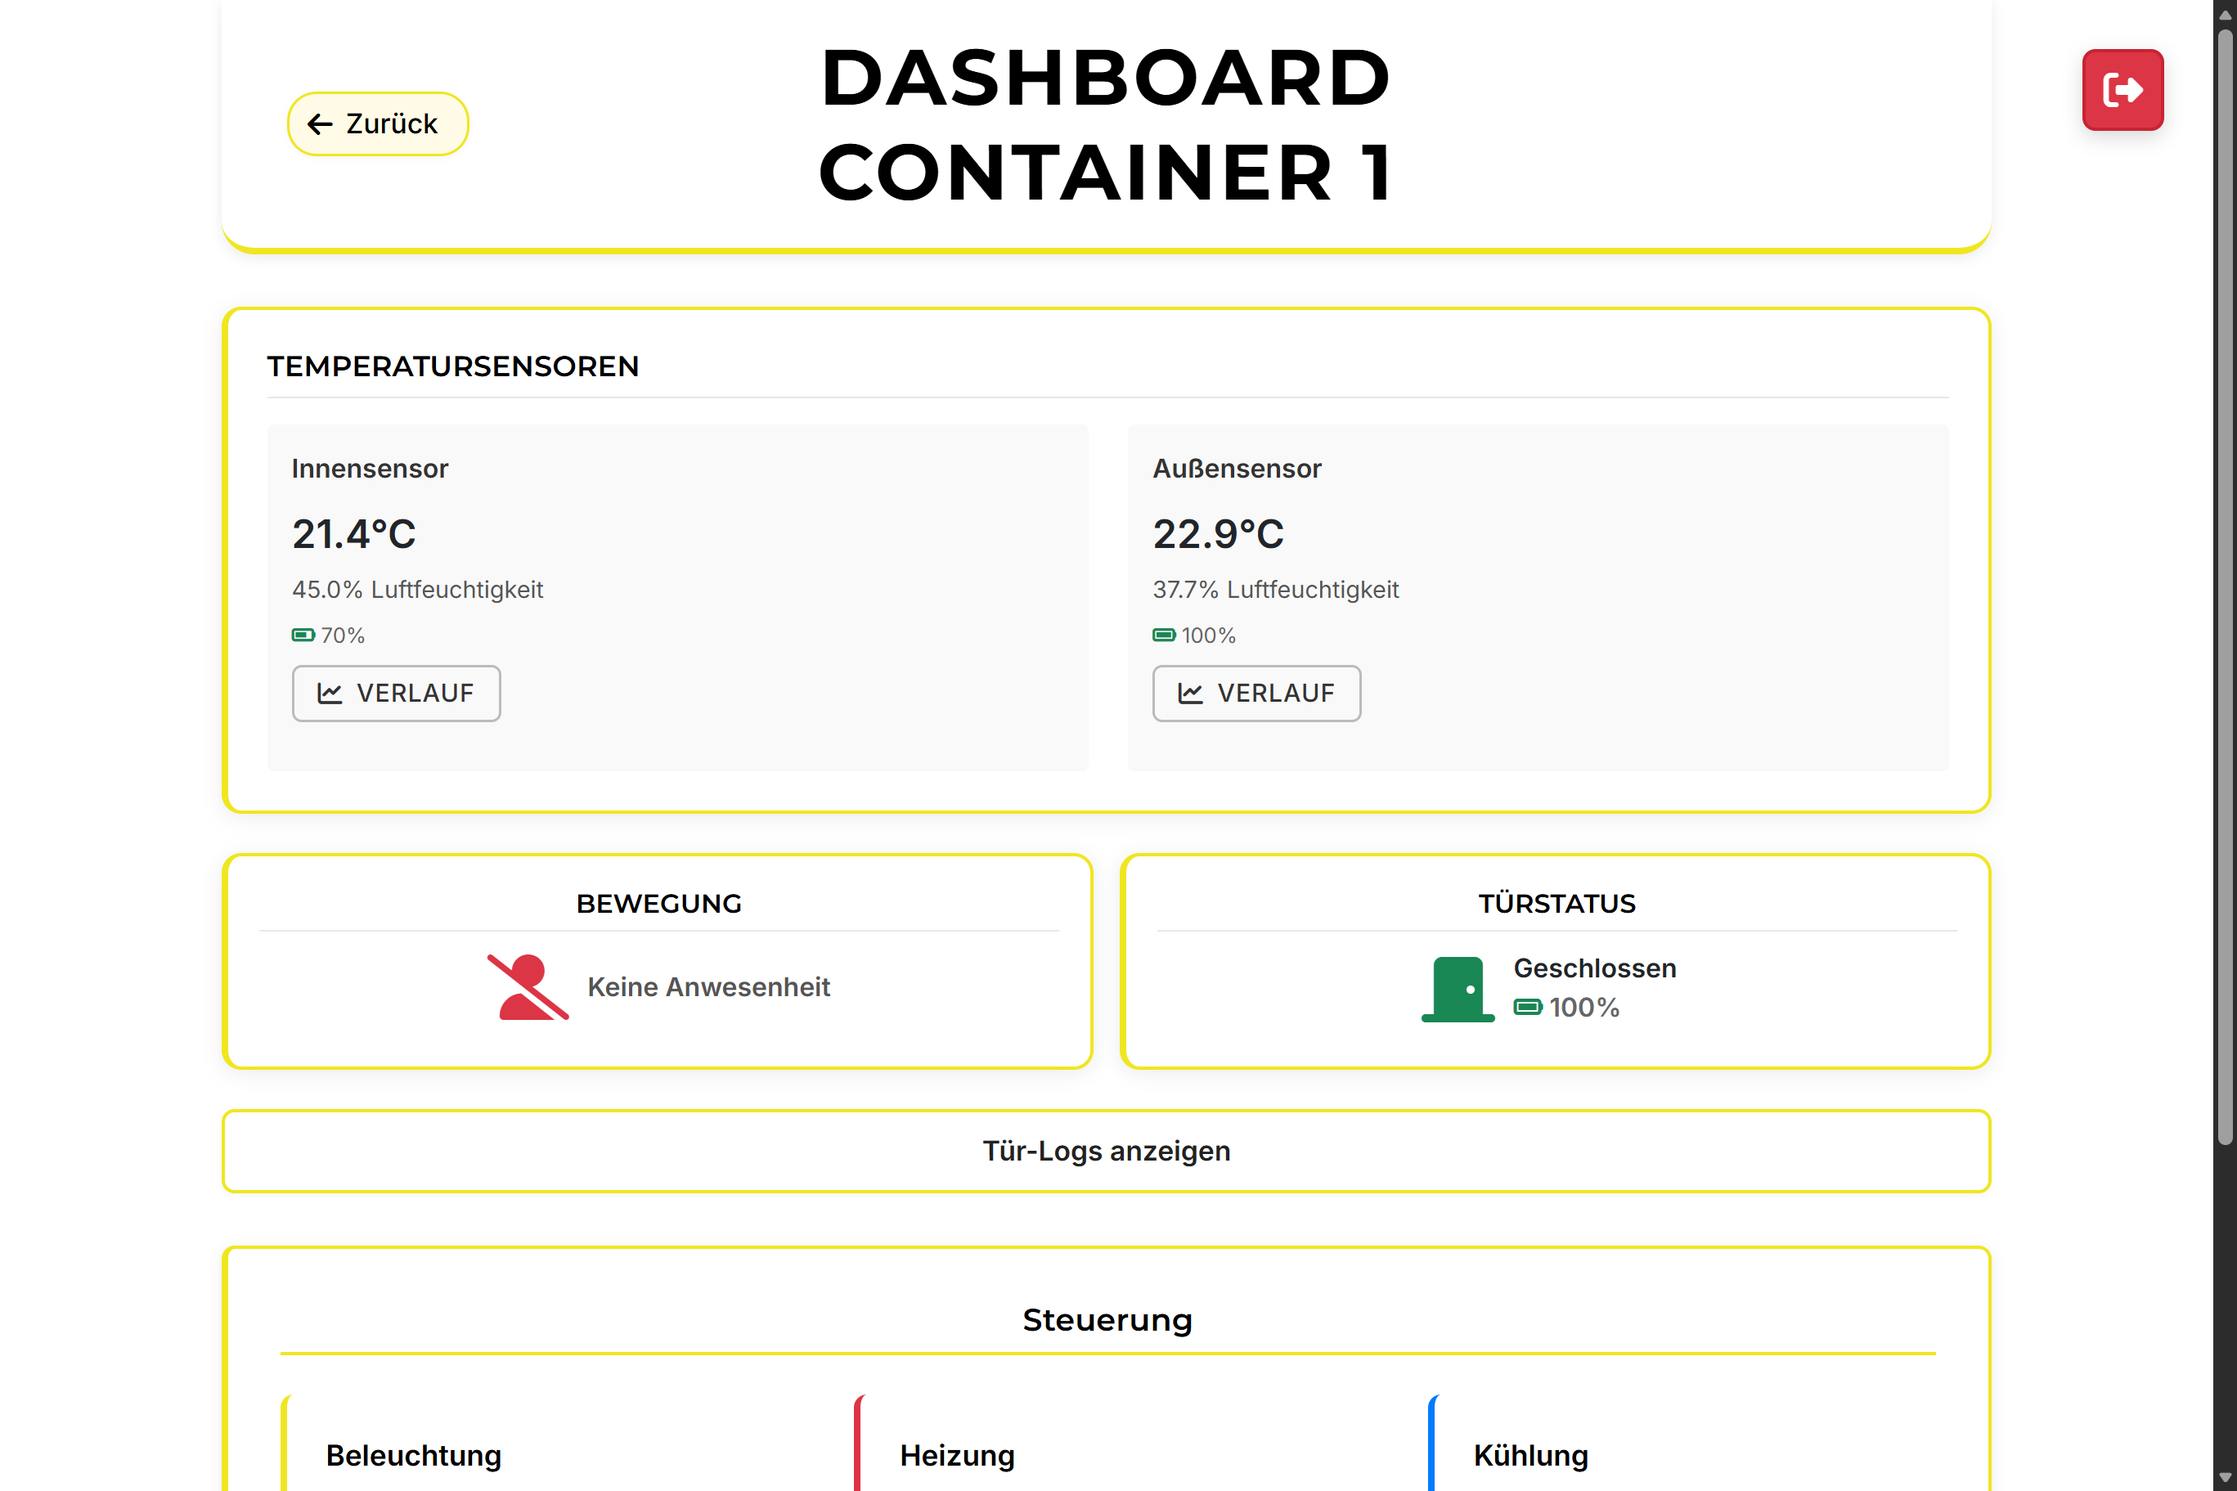
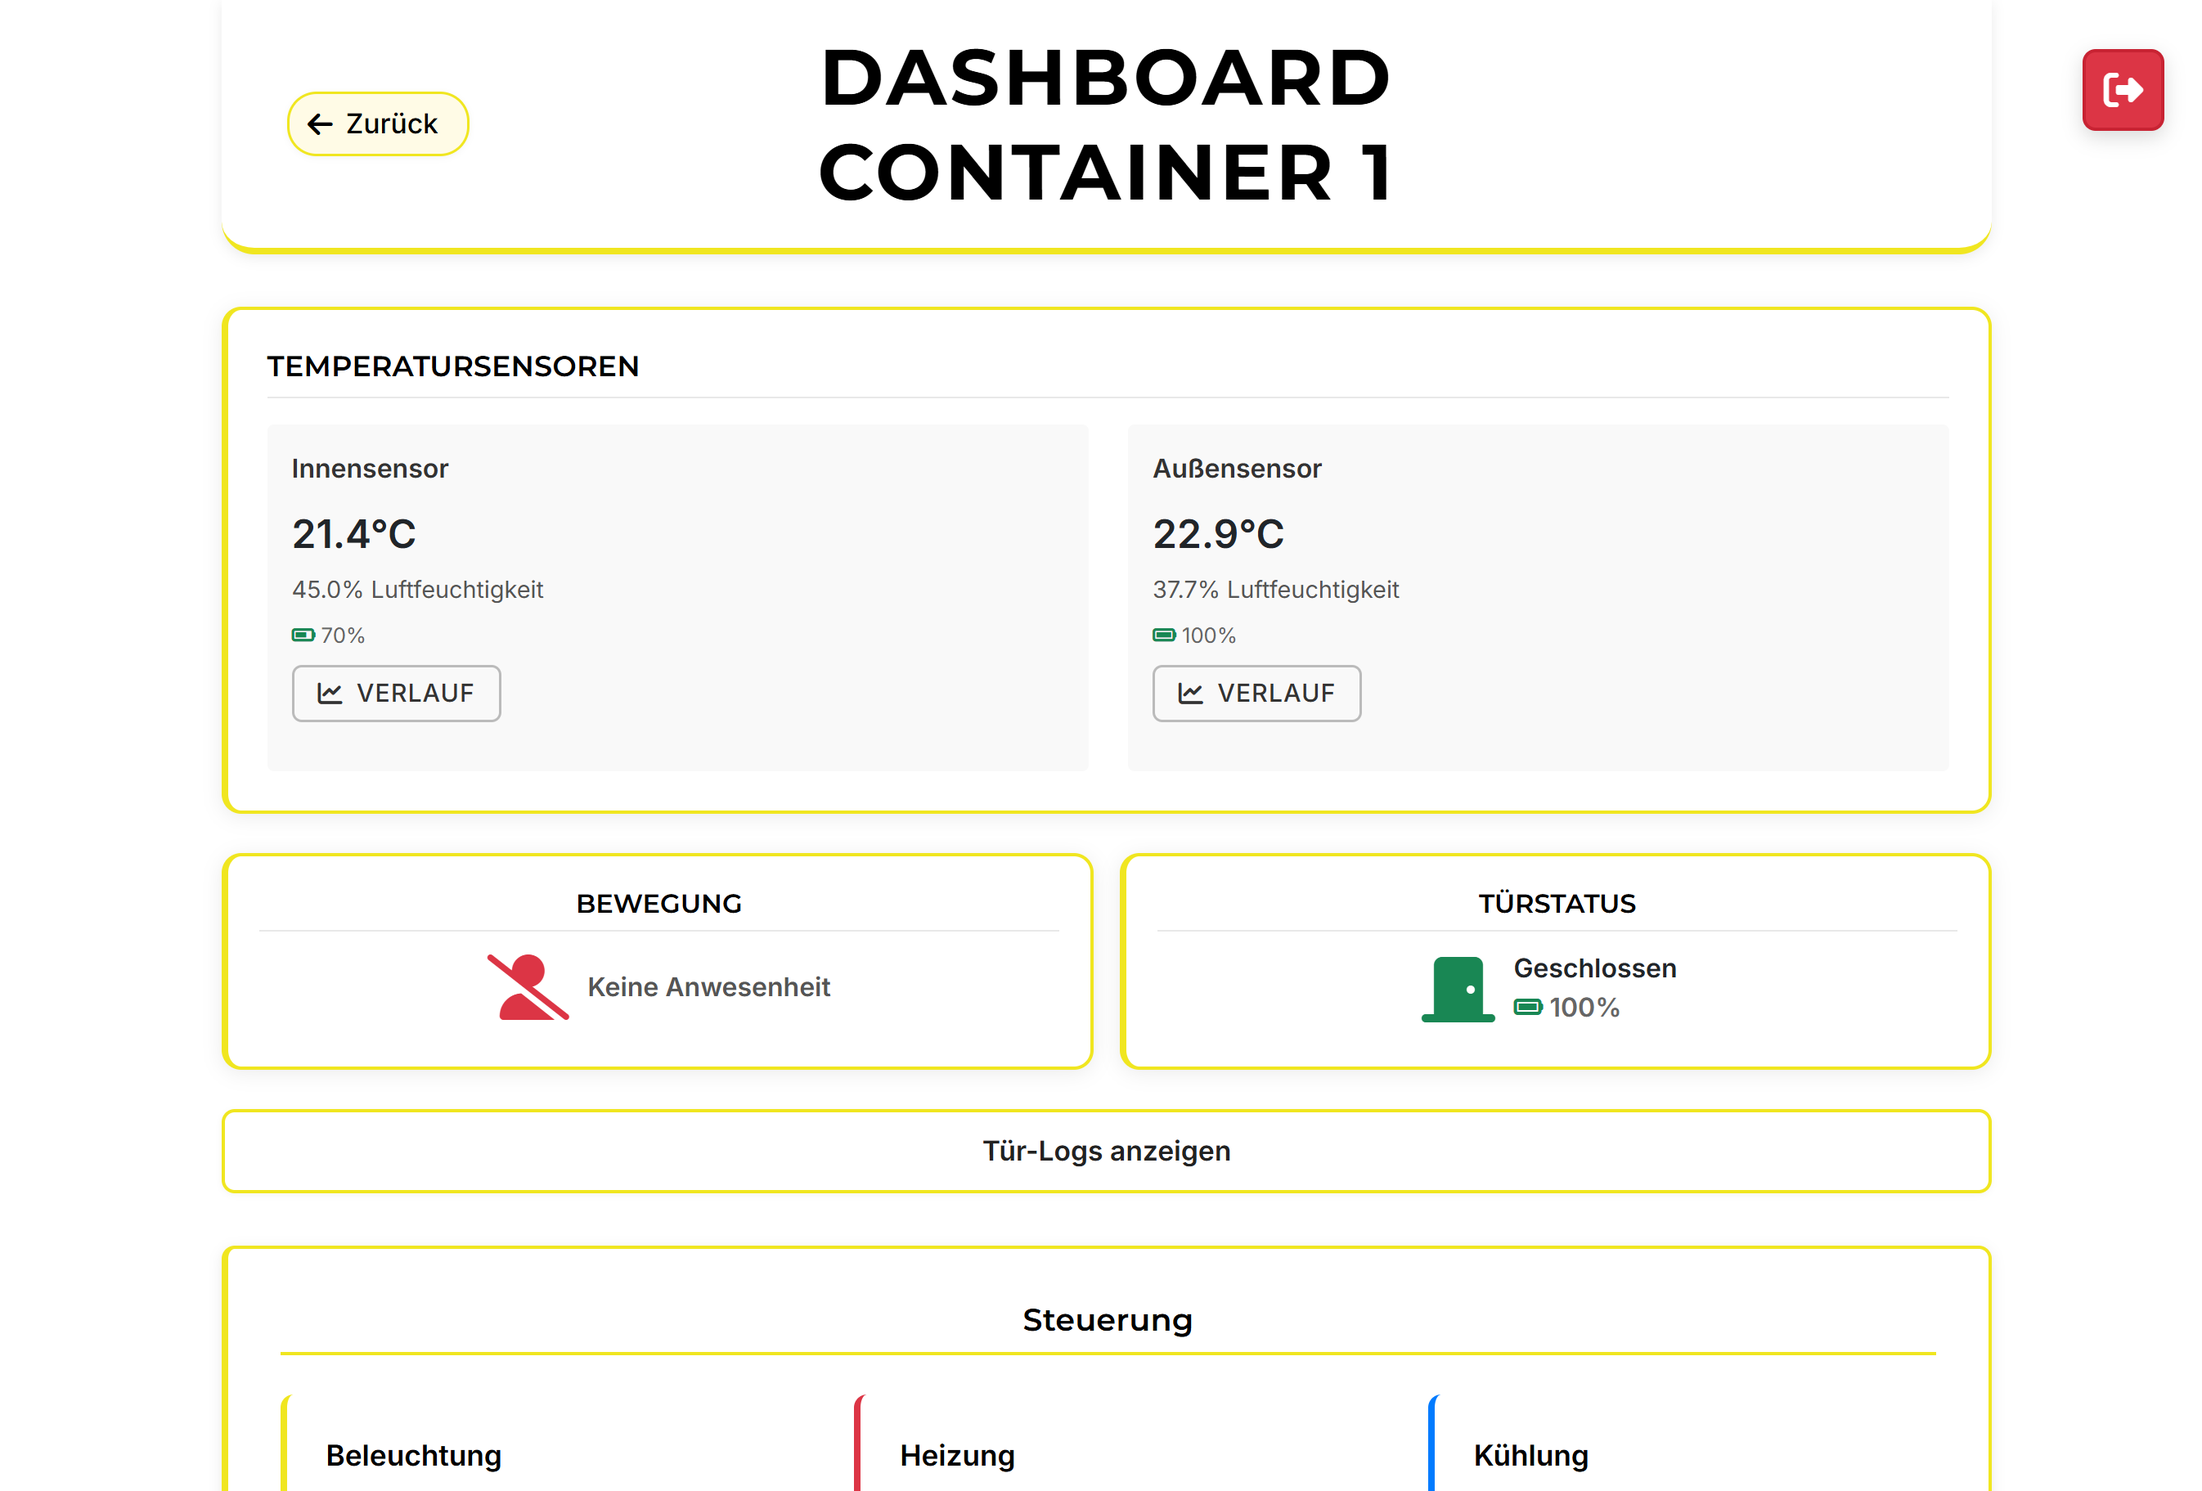
feat:  Services, Guards

diff --git a/sections/implementation.tex b/sections/implementation.tex
@@ -385,15 +385,19 @@ Die Ports werden pfadbasiert weitergeleitet:
 
 
 
-\section{Angular}
+\section{Frontend: Angular}
 Da das Projekt nicht nur am Desktop, sondern auch auf mobilen Devices zum Einsatz kommen soll, wurde die gesamte Applikation in einem responsive Design entwickelt. 
 \setauthor{Elias Mahr}
 
 \subsection{Components}
 
 Komponenten sind in Angular die Grundlage der Webseite. Sie dienen zur einfachen und übersichtlichen Strukturierung der Anwendung. Durch klare Code Trennungen ist alles übersichtlich und bei späteren Verbesserungen/Änderungen leichter zu Warten.
-Eine Anwendung wird nicht in einem einzigen html File erstellt sondern klar in mehrere kleinere Elemente,bestehend aus eigenen html, css, und typescript Files, unterteilt. Diese kombiniert ergeben dann erst das große ganze, somit wird auf der einen Seite die Architektur so Sauber wie möglich gehalten und auf der anderen Seite die Wartung so einfach wie möglich vorbereitet.
-
+Eine Anwendung wird nicht in einem einzigen html File erstellt sondern klar in mehrere kleinere Elemente, bestehend aus eigenen html, css, und typescript Files, unterteilt. Diese kombiniert ergeben dann erst das große ganze, somit wird auf der einen Seite die Architektur so Sauber wie möglich gehalten und auf der anderen Seite die Wartung so einfach wie möglich vorbereitet.
+Um so eine Komponente zu erstellen kann man ganz einfach die Angular CLI benutzen. Mit dem Befehl
+\begin{lstlisting}[language=bash, caption={erstellen einer Komponente in der Angular CLI}]
+ng generate component NAME
+\end{lstlisting}
+werden alle benötigten Files erstellt.
 
 \subsubsection{Komponenten Baum}
 
@@ -536,7 +540,7 @@ Um dies zu erleichtern wird beim Eingeben eines neuen Datums sofort ein kleiner 
 
 \begin{figure}[H]
     \centering
-    \includegraphics[scale=0.15]{pics/dashboard.png}
+    \includegraphics[scale=0.18]{pics/dashboard.png}
     \caption{Dashboard}
     \label{fig:Dashboard}
 \end{figure}
@@ -550,6 +554,60 @@ kann ein weiterer Abschnitt jederzeit leicht hinzugefügt werden, ohne Rücksich
 Ganz oben in der Componente sieht man die Überschrift mit dem Namen des Containers. Der erste Abschnitt ist eine übersichtliche Temperaturanzeige von Innen- und Außensensor.
 Fettgedruckt ist die Temperatur, da das die wichtigste Anzeige im Container ist. Gleich darunter steht etwas kleiner die Luftfeuchtigkeit und abschließend noch die Anzeige der übrigen Batterie, um rechtzeitig zu erkennen, wann die Batterien gewechselt werden sollten.
 Ein detaillierter Verlauf kann dann noch mit dem Button ``Verlauf'' angezeigt werden. Dazu aber dann in dieser Componente mehr.
+
+Darunter befinden sich der Anwesenheitsstatus und der Tür Status. Diese sind durch Icons sofort ersichtlich. 
+
+\begin{figure}[H]
+    \centering
+    \begin{subfigure}[b]{0.45\textwidth}
+        \centering
+        \includegraphics[width=0.3\textwidth]{pics/AnwesenheitTrue.png}
+        \caption{Anwesenheit True}
+        \label{fig:anwesenheitTrue}
+    \end{subfigure}
+    \hfill
+    \begin{subfigure}[b]{0.45\textwidth}
+        \centering
+        \includegraphics[width=0.29\textwidth]{pics/AnwesenheitFalse.png}
+        \caption{Anwesenheit False}
+        \label{fig:anwesenheitFalse}
+    \end{subfigure}
+    \caption{Icons Anwesenheit}
+    \label{fig:anwesenheitIcons}
+\end{figure}
+
+\begin{figure}[H]
+    \centering
+    \begin{subfigure}[b]{0.45\textwidth}
+        \centering
+        \includegraphics[width=0.3\textwidth]{pics/DoorTrue.png}
+        \caption{Tür zu}
+        \label{fig:doorOpen}
+    \end{subfigure}
+    \hfill
+    \begin{subfigure}[b]{0.45\textwidth}
+        \centering
+        \includegraphics[width=0.29\textwidth]{pics/DoorFalse.png}
+        \caption{Tür offen}
+        \label{fig:door Close}
+    \end{subfigure}
+    \caption{Unterschied der Urlaube}
+    \label{fig:door Icons}
+\end{figure}
+
+
+In der Mitte kommt man zum Button "Tür logs anzeigen". Dieser navigiert zur door-logs Komponente mit den jeweiligen Daten zum Cointainer.
+
+Im Elemente Steuerung gibt es 3 Unterteilungen in "Beleuchtung", "Heizung" und "Kühlung". Durch einen klick auf den Toggle kann dann im Container der jeweilige Plug ein/aus geschaltet werden.
+
+\begin{figure}[H]
+    \centering
+    \includegraphics[scale=0.27]{pics/Steuerung.png}
+    \caption{Steuerung}
+    \label{fig:steuerung}
+\end{figure}
+
+Das Ende der Komponente ist der "Kalender bearbeiten" Button. Dieser ist bei fehlender Autorisierung disabled. Nach erfolgreicher Anmeldung kann hier zur calendar-component navigiert werden.
 
 \subsubsection{door-logs}
 
@@ -570,19 +628,33 @@ Ein detaillierter Verlauf kann dann noch mit dem Button ``Verlauf'' angezeigt we
     \label{fig:doorLogs}
 \end{figure}
 
+Ein Wesentlicher Bestandteil unserer Arbeit ist es die Sicherheit gegen Einbrüche in die Container zu verbessern.
+Da unsere erste Überlegung mit der Kamera, Datenschutztechnisch sehr schwierig umzusetzen ist und sich in einer Rechtlichen Grauzone befindet wurde eine andere Lösung gesucht.
+Nach Gesprächen mit der Firma wurde das Konzept der door-logs Komponente entwickelt.
+Die Komponente zeigt die Historie aller Türöffnungen des Containers auf.
+Um unerlaubtes eindringen außerhalb der Arbeitszeit nachvollziehen zu können sind in dieser Komponente im nachhinein alle Öffnungen aufgezeigt.
+
+
+Aufgebaut ist sie in drei Abschnitte.
+Einmal die Überschrift Tür-Logs ganz oben auf der Seite.
+Als zweites ein Menüband um mögliches filtern zu ermöglichen. Es kann eine Zeitraum Filterung und eine Filterung auf nur jene Öffnungen außerhalb der Arbeitszeit angewendet werden. Bei der Zeitraum Filterung sind standartmäßig die letzten sieben Tage eingestellt.
+In einem Dropdown werden die Möglichkeiten "letzter Monat" und "alle Daten" noch aufgezeigt. Das Dropdown kann jedoch jederzeit auf andere Zeiträume erweitert werden da der genutzte Endpunkt beliebig viele Tage zurückgeben kann.
+Sollte die Checkbox "Nur außerhalb der Arbeitszeiten" werden nur Türöffnungen außerhalb der Arbeitszeiten angezeigt, der Filter des Zeitraums wird hierbei auch berücksichtigt.
+
+Der Letzte Abschnitt ist die Liste. Zum schnellen Erkennung von unrechtmäßigen eindringen außerhalb der Arbeitszeit werden solche Öffnungen Rot hervorgehoben. Angezeigt wird für jeden Öffnung das Datum, die Zeit wann die Türe geöffnet wurde und zu welcher Zeit sie wieder geschlossen wurde.
+Am Fuße der Liste finden sich noch zwei Buttons. der gelbe Button "Zurück" ist lediglich dazu da wieder zur Dashboard Komponente zu navigieren. Der Button "Als PDF exportieren" erstellt eine Pdf Datei die sofort gedownloadet werden kann.
+Zur Erstellung der Pdf wird eine fertige JavaScript-Bibliothek JsPdf genutzt. Diese Bibliothek erstellt direkt im Browser eine Pdf, dies hat den Vorteil das kein Backend benötigt wird.
+
+\begin{figure}[H]
+    \centering
+    \includegraphics[scale=0.7]{pics/examplePdf.png}
+    \caption{Door Logs Pdf example}
+    \label{fig:LogsPdf}
+\end{figure}
+
 \subsubsection{plotly-chart}
 
-
-
-
-\begin{itemize}
-\item can- und Logout-Buttonslender-editor
-\item dashboard
-\item door-logs
-\item kalender
-\item plotly-chart
-\item start-list-container
-\end{itemize}
+\subsubsection{calendar-editor}
 
 \subsection{Dependency Injection}
 Um die Logik in allen Komponenten nicht immer wieder neu Laden zu müssen benutzt Angular das design Pattern der Dependency Injection.
@@ -591,6 +663,11 @@ Man erstellt einen Service und kann dann von allen Codeabschnitten, auf die dort
     \item \textbf{Wartbarkeit} Man vermeidet doppelten Code und kann so ganze Datenabfragen mit nur ein paar Zeilen über die gesamte App und in jeder Komponente ändern.
     \item \textbf{Anpassungsfähigkeit} In jeder neuen Komponente die erstellt wird kann sofort, exakt die selbe Logik verwendet werden wie in dem bestehenden Code.
 \end{itemize}
+Das erstellen eines solchen Services funktioniert ganz einfach in der Angular CLI.
+\begin{lstlisting}[language=bash, caption={erstellen eines Services in der Angular CLI}]
+ng generate service NAME
+\end{lstlisting}
+Daraufhin werden alle benötigten Files automatisch erstellt und man kann sofort anfangen zu implementieren.
 
 \subsubsection{Calendar}
 
@@ -622,7 +699,7 @@ Als letztes wird noch ein Patch Aufruf bereitgestellt um die Betriebsurlaube zu 
     \caption{Container Service}
     \label{fig:ContainerService}
 \end{figure}
-Der Container Service ist Primär zuständig einen Endpunkt zum Laden der ganzen Elemente der start-list-component bereit zu stellen. 
+Der Container Service ist Primär zuständig einen Endpunkt zum Laden der ganzen Elemente der start-list Komponente bereit zu stellen. 
 \begin{itemize}
 \item \textbf{get:} https://localhost:53488/api/Containers
 \end{itemize}
@@ -630,11 +707,85 @@ Per HTTP-GET bekommt man alle Container und deren Daten. Der Aufruf wird, bei Fe
 
 
 \subsubsection{Keycloak-auth}
+\begin{figure}[H]
+    \centering
+    \includegraphics[scale=0.085]{pics/KecloakService.png}
+    \caption{Keycloak Service}
+    \label{fig:KeycloakService}
+\end{figure}
+Der KeycloakAuthService regelt die ganze Benutzerauthentifizierung über Keycloak. 
+Um die Oberfläche dynamisch anpassen zu können gibt es zwei Streams die von der UI subscribed werden. Einmal für den Authentifizierungsstatus und einmal für das Management der Rollen.
+\begin{itemize}
+\item \textbf{isAuthenticated:} this.isAuthenticatedSubject.asObservable();
+\item \textbf{userRoles:} this.userRolesSubject.asObservable();
+\end{itemize}
+Der Service regelt unter anderem den Login indem er zur Keycloak Login Page umleitet und danach automatisch zur ursprünglichen Route zurück.
+Beim Logout werden beide Subjects, isAuthenticatedSubject und userRolesSubject gelöscht.
+
+
 \subsubsection{Plug-controll}
+\begin{figure}[H]
+    \centering
+    \includegraphics[scale=0.09]{pics/PlugControllService.png}
+    \caption{PlugControl Service}
+    \label{fig:PlugControlService}
+\end{figure}
+In der Frontend Architektur übernimmt der plug-controll-service die Steuerung aller Aktoren. Genauer gesagt Licht, Heizung und Kühlung. 
+Ein Post mit containerId und plugType wird an den Endpunkt geschickt. Da alle Typen direkt in einem Endpunkt geregelt sind wäre eine Zukünftige Erweiterung, für zum Beispiel ein zweites Licht, sehr einfach.
+Der Request gibt nur zurüpck ob es funktioniert hat oder nicht(boolean:true|false). Beim einem Fehlgeschlagenen versuch wird der Fehler direkt geloggt. Dadurch wird ein möglicher Fall, wie das ausstecken eines Controllers, sauber abgefangen ohne Probleme zu verursachen.
+Im Gegensatz zu den anderen Services ist der PlugControllService ein reiner schreib-Service, er kann keine Daten lesen.
+\begin{itemize}
+\item \textbf{post:} https://localhost:53488/api/PlugControl
+\end{itemize}
 \subsubsection{Sensor-adapter}
+\begin{figure}[H]
+    \centering
+    \includegraphics[scale=0.08]{pics/SensorAdapterService.png}
+    \caption{SensorAdapterService Service}
+    \label{fig:SensorAdapterService}
+\end{figure}
+Als letzter Service ist der sensor-adapter Service dazu zuständig mit dem plug-controll die ganze Sensor Logik zu vervollständigen. Der Service versorgt das Dashboard mit den aktuellen und historischen Containerdaten wie Temperatur, Steckdosenstatus und Anwesenheitsdaten. 
+Alle Daten werden mithilfe eines FirastoreListeners immer live geladen. Eine Änderung in der Datenbank wird sofort erkannt und alle Daten auf der Webseite werden neu geladen. Diese live Updates können aber über zwei Methoden:startLiveUpdates und stopLiveUpdates, ein und ausgeschaltet werden.
+\begin{itemize}
+\item \textbf{get:} https://localhost:53488/api/Sensors/container/{containerId}
+\end{itemize}
+Wie vorher gesagt bietet der Service nicht nur live Daten sondern auch einige Endpunkte um historische Daten für Diagramme zu Laden. Dazu gehören der Temperaturverlauf und der Türkontaktverlauf.  
+\begin{itemize}
+\item \textbf{get:} https://localhost:53488/api/Sensors/history/temperature/{containerId}/{sensorLocation}?days={days}
+\item \textbf{get:} https://localhost:53488/api/Sensors/history/plugs/{containerId}/{plugType}?days={days}
+\item \textbf{get:} https://localhost:53488/api/Sensors/history/appearance/{containerId}?days={days}
+\item \textbf{get:} https://localhost:53488/api/Sensors/history/door/{containerId}?days={days}
+\item \textbf{get:} https://localhost:53488/api/Sensors/history/door/{containerId}?days={days}
+\end{itemize}
 
 \subsection{Guards}
+In Angular wird die Zugriffs Kontrolle auf Routen über Guards geregelt. Guards kontrollieren ob User bestimmte Routen aufrufen oder aber auch verlassen dürfen. Sie kontrollieren die Navigation des User, so das dieser ohne die erforderlichen Rechte nicht auf geschützte Routen kommt. Guards bestehen aus einer einer einzigen Typescript Datei, diese kann einfach, in der Angular CLI, mit dem Befehl 
+\begin{lstlisting}[language=bash, caption={erstellen eines Guards in der Angular CLI}]
+ng generate guard NAME
+\end{lstlisting}
+erstellt werden. 
 
+\subsubsection{authGuard}
+\begin{figure}[H]
+    \centering
+    \includegraphics[scale=0.058]{pics/AblaufAuthGuard.png}
+    \caption{Ablauf der Routensicherung im AuthGuard}
+    \label{fig:AblaufRoutenSicherung}
+\end{figure}
+
+Der erste implimentierte Guard ist der authGuard. Dieser regelt die Zugriffskontrolle auf alle Routen im Frontend. Bevor man auf eine neue Route wechselt wird im Controller geprüft ob der User das nötige, gültige, Token hat. Sollte dies nicht der Fall sein wird der User zur Anmeldung aufgefordert.
+Sollte ein Fehler bei der Anmeldung passieren(zum Beispiel Falsches Passwort) wir zurück zur Startseite navigiert. Somit wird versichert das wirklich nur Geschütze Funktionen nach erfolgreicher Anmeldung bedient werden können.
+
+\subsubsection{adminGuard}
+\begin{figure}[H]
+    \centering
+    \includegraphics[scale=0.09]{pics/AdminGuardAblauf.png}
+    \caption{Ablauf der Rollenprüfung im AdminGuard}
+    \label{fig:AblaufRollenPrüfung}
+\end{figure}
+
+Der adminGuard ist eine eine Erweiterung zum authGuard. Bei den aktuellen Funktionsweisen hat er noch keine richtige Aufgabe und ist nur für mögliche zukünftige Erweiterungen der Firma da.
+Im Guard wird auf die Rolle des angemeldeten Users geprüft. Zurzeit gibt es nur die rolle Admin. Sollte es jedoch in Zukunft eine Rolle für Mitarbeiter oder Kunden geben würde man die Autorisierung im AdminGuard leicht erweitern können auch ohne sich davor spezifisches Wissen aneignen zu müssen.
 
 
 
